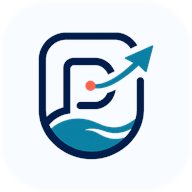
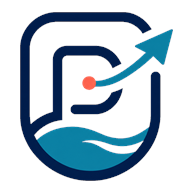
wip

diff --git a/frontend/index.html b/frontend/index.html
@@ -2,8 +2,8 @@
 <html lang="en">
   <head>
     <meta charset="UTF-8" />
-    <link rel="icon" type="image/png" href="/favicon.png?v=6" />
-    <link rel="shortcut icon" href="/favicon.ico?v=6" />
+    <link rel="icon" type="image/png" href="/favicon.png?v=7" />
+    <link rel="shortcut icon" href="/favicon.ico?v=7" />
     <link rel="apple-touch-icon" sizes="180x180" href="/apple-touch-icon.png" />
     <link rel="manifest" href="/site.webmanifest" />
     <meta name="theme-color" content="#071b52" />
